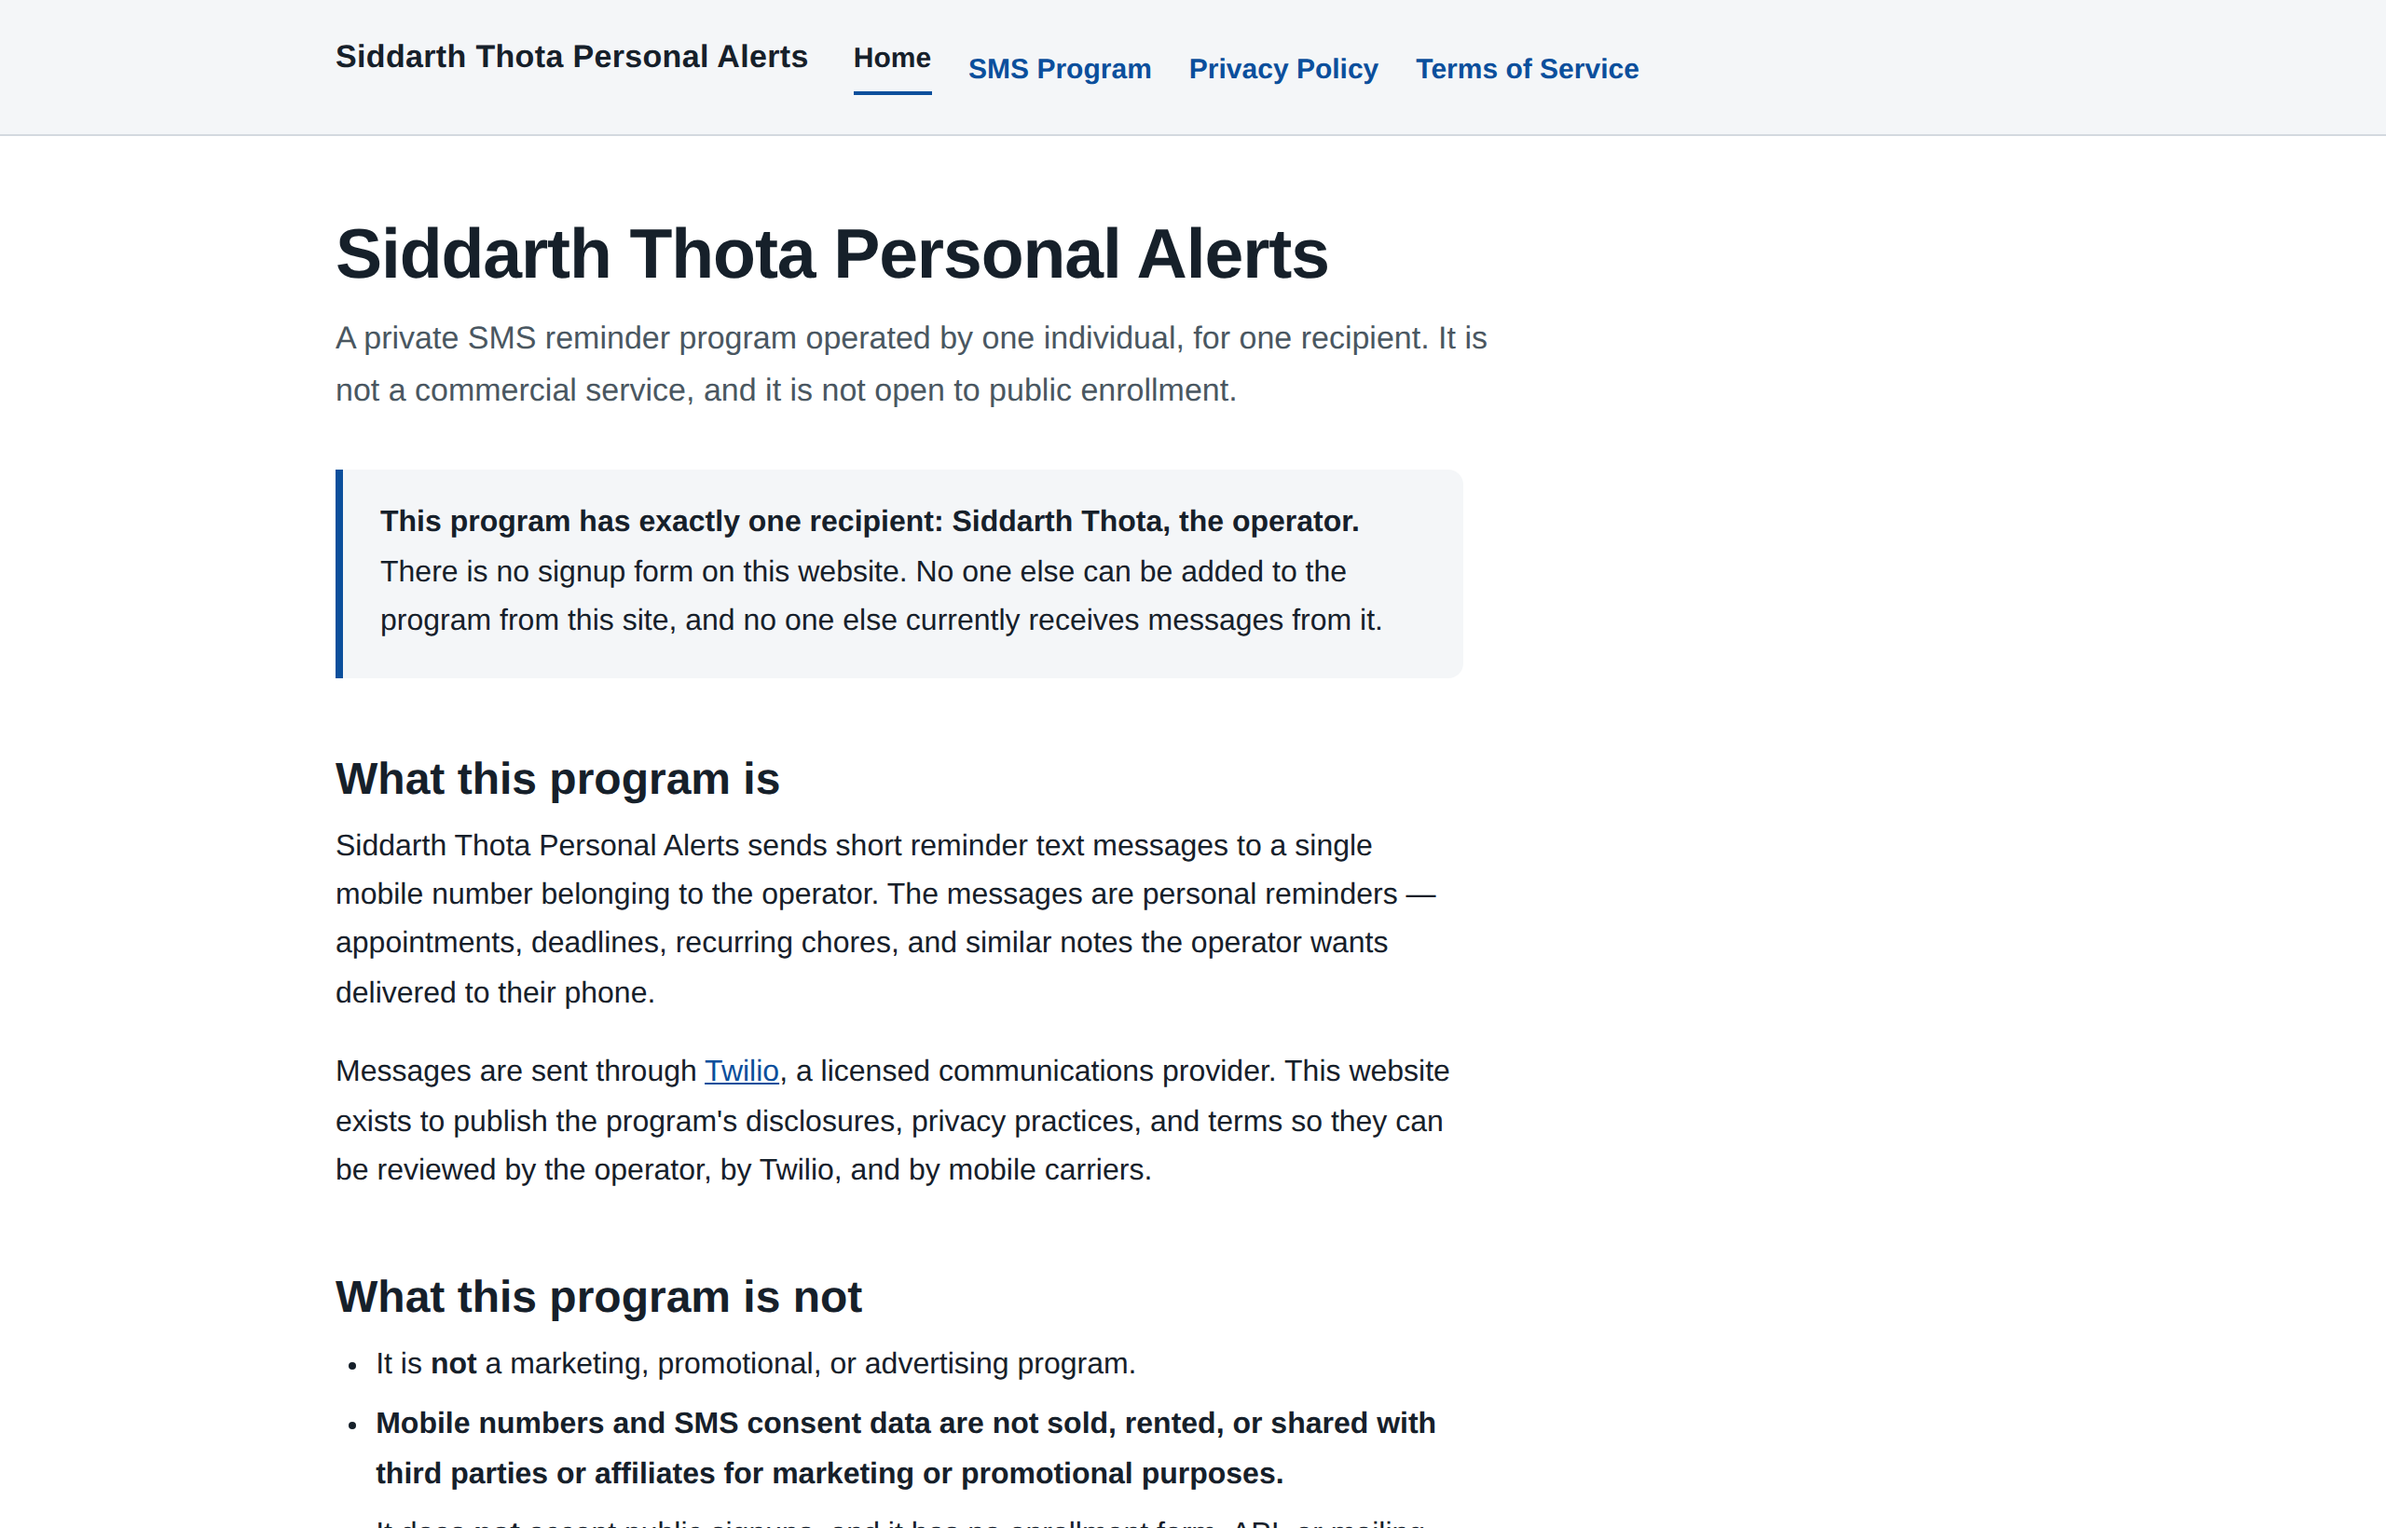
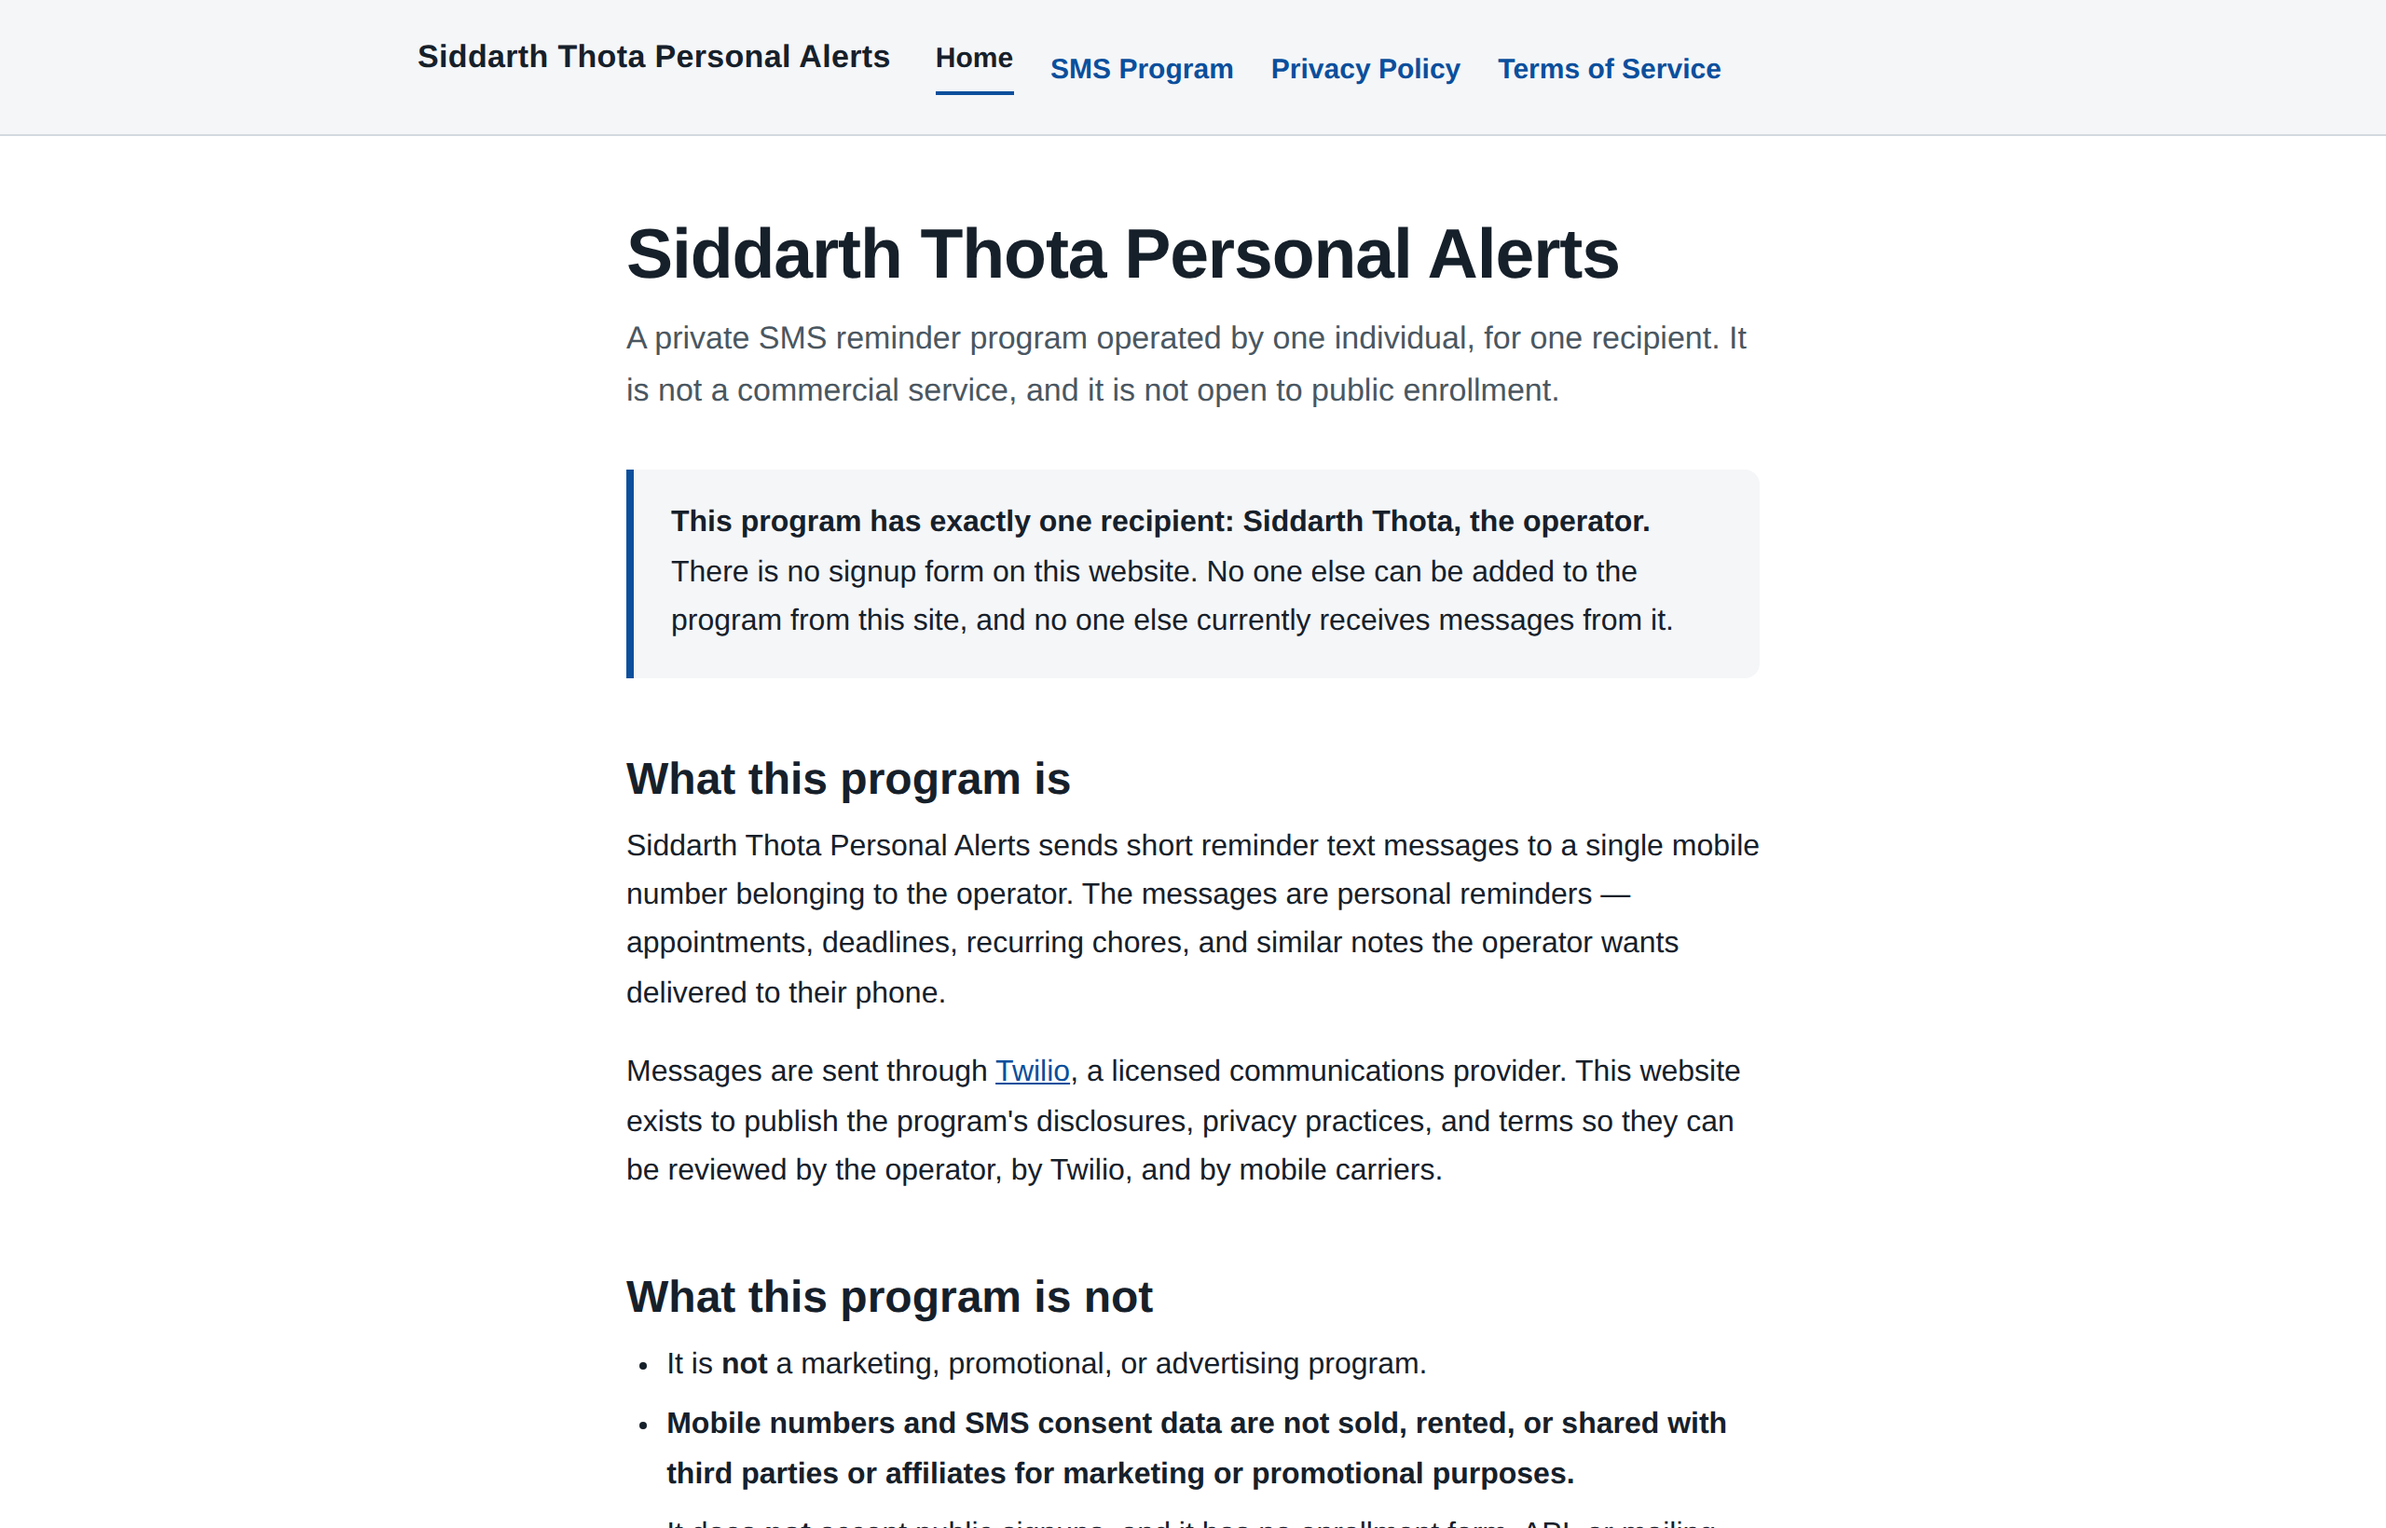
Centre the text column and give the page one spine
Body copy was capped at a measure but left-aligned inside a wider wrapper, so
at desktop widths it hugged the left with a wide empty gutter on the right.

Centring the measure exposed a real bug behind it: the measure was 68ch, and
ch resolves against each element's own font size, so an h1 was capped far wider
than a paragraph. Left-aligned that was invisible; centred it produced a
staircased left edge. The measure is now an absolute 38rem, so every block in
the column is the same width.

Elements that need more room than the measure — the card grid and the provider
table — now share a 52rem measure instead of filling the wrapper, and the
header and footer are capped to the same width. Measured on the rendered page,
the header, card grid and footer all begin at 224px and the text column at
336px: two axes instead of four ragged ones.

Verified by rendering the pages, not by reading the CSS: home, privacy, sms in
dark mode, and a 380px viewport, all with no horizontal overflow. The palette
is untouched, so the measured contrast ratios still hold. README screenshot
regenerated, and its caption no longer pins a commit hash that would go stale.

Claude-Session: https://claude.ai/code/session_01TRjmeaH8DfUcjYYoHcUrMv

diff --git a/site/assets/css/styles.css b/site/assets/css/styles.css
@@ -17,7 +17,11 @@
   --focus: #b8510a;
   --code-bg: #eef1f4;
 
-  --measure: 68ch;
+  /* Absolute, not ch: `ch` resolves against each element's own font size, so a
+     heading and a paragraph would get different widths and their centred left
+     edges would not line up. 38rem is about 68 characters of body text. */
+  --measure: 38rem;
+  --measure-wide: 52rem;
   --radius: 8px;
   --space: 1rem;
 }
@@ -102,6 +106,14 @@ summary:focus-visible,
   background: var(--bg-subtle);
 }
 
+/* Header and footer share the content's centre axis: capped at the wide
+   measure plus the wrapper's own padding, so their inner edge lands exactly
+   where the card grid and tables begin. */
+.site-header .wrap,
+.site-footer .wrap {
+  max-width: calc(var(--measure-wide) + 2.5rem);
+}
+
 .site-header .wrap {
   display: flex;
   flex-wrap: wrap;
@@ -157,14 +169,19 @@ main {
   padding-block: 2.5rem 3rem;
 }
 
+/* Body copy sits in a centred measure rather than hugging the left edge of
+   the wrapper, so the page is symmetric at desktop widths. */
 main .wrap > * {
   max-width: var(--measure);
+  margin-inline: auto;
 }
 
+/* Elements that need more room than the measure step out evenly on both
+   sides, staying centred on the same axis as the text. */
 main .wrap > .full,
 main .wrap > .table-scroll,
 main .wrap > .card-grid {
-  max-width: none;
+  max-width: var(--measure-wide);
 }
 
 /* ---------- Typography ---------- */

diff --git a/CLAUDE.md b/CLAUDE.md
@@ -144,6 +144,13 @@ add an arbitration clause without an explicit instruction to do so.
     file.
 - **Real directories with `index.html`**, so `/privacy/` works on direct
   navigation and refresh without any client-side routing.
+- **One centred spine.** Body copy sits in `--measure` (38rem), centred.
+  Elements that need more room — the card grid, tables, anything marked
+  `.full` — use `--measure-wide` (52rem), and the header and footer are capped
+  to the same width, so every wide element shares one left edge.
+  - Keep both measures in **absolute units, never `ch`**. `ch` resolves against
+    each element's own font size, so a heading and a paragraph get different
+    widths; centred, their left edges then fail to line up.
 - **No framework, no analytics, no cookies, no storage, no third-party
   requests.** Everything the browser loads is served from this repository.
 - Every page must work with JavaScript disabled.
@@ -221,7 +228,6 @@ const { chromium } = require("playwright");
 })();'
 ```
 
-Update the commit hash in the README caption when the screenshot is replaced.
 The caption must keep saying how the image was produced: claiming a render is
 a capture of the live site would be a small untruth in a repository whose whole
 point is that its claims are checkable.

diff --git a/README.md b/README.md
@@ -9,9 +9,10 @@ cookies. It is deployed with GitHub Pages.
 
 [![The Siddarth Thota Personal Alerts home page](docs/images/home.png)](https://kingcobra52.github.io/twillio_campaign/)
 
-<sub>Home page at 1280&nbsp;px, light mode. Rendered with Chromium from the
-`site/` directory at commit `044a8d9` — the same bytes the Pages workflow
-uploads — not captured from the live URL.</sub>
+<sub>Home page at 1280&nbsp;px, light mode. Rendered with Chromium from this
+repository's `site/` directory — the same bytes the Pages workflow uploads —
+not captured from the live URL. Git history records which commit the image was
+built from.</sub>
 
 ## Public pages
 
